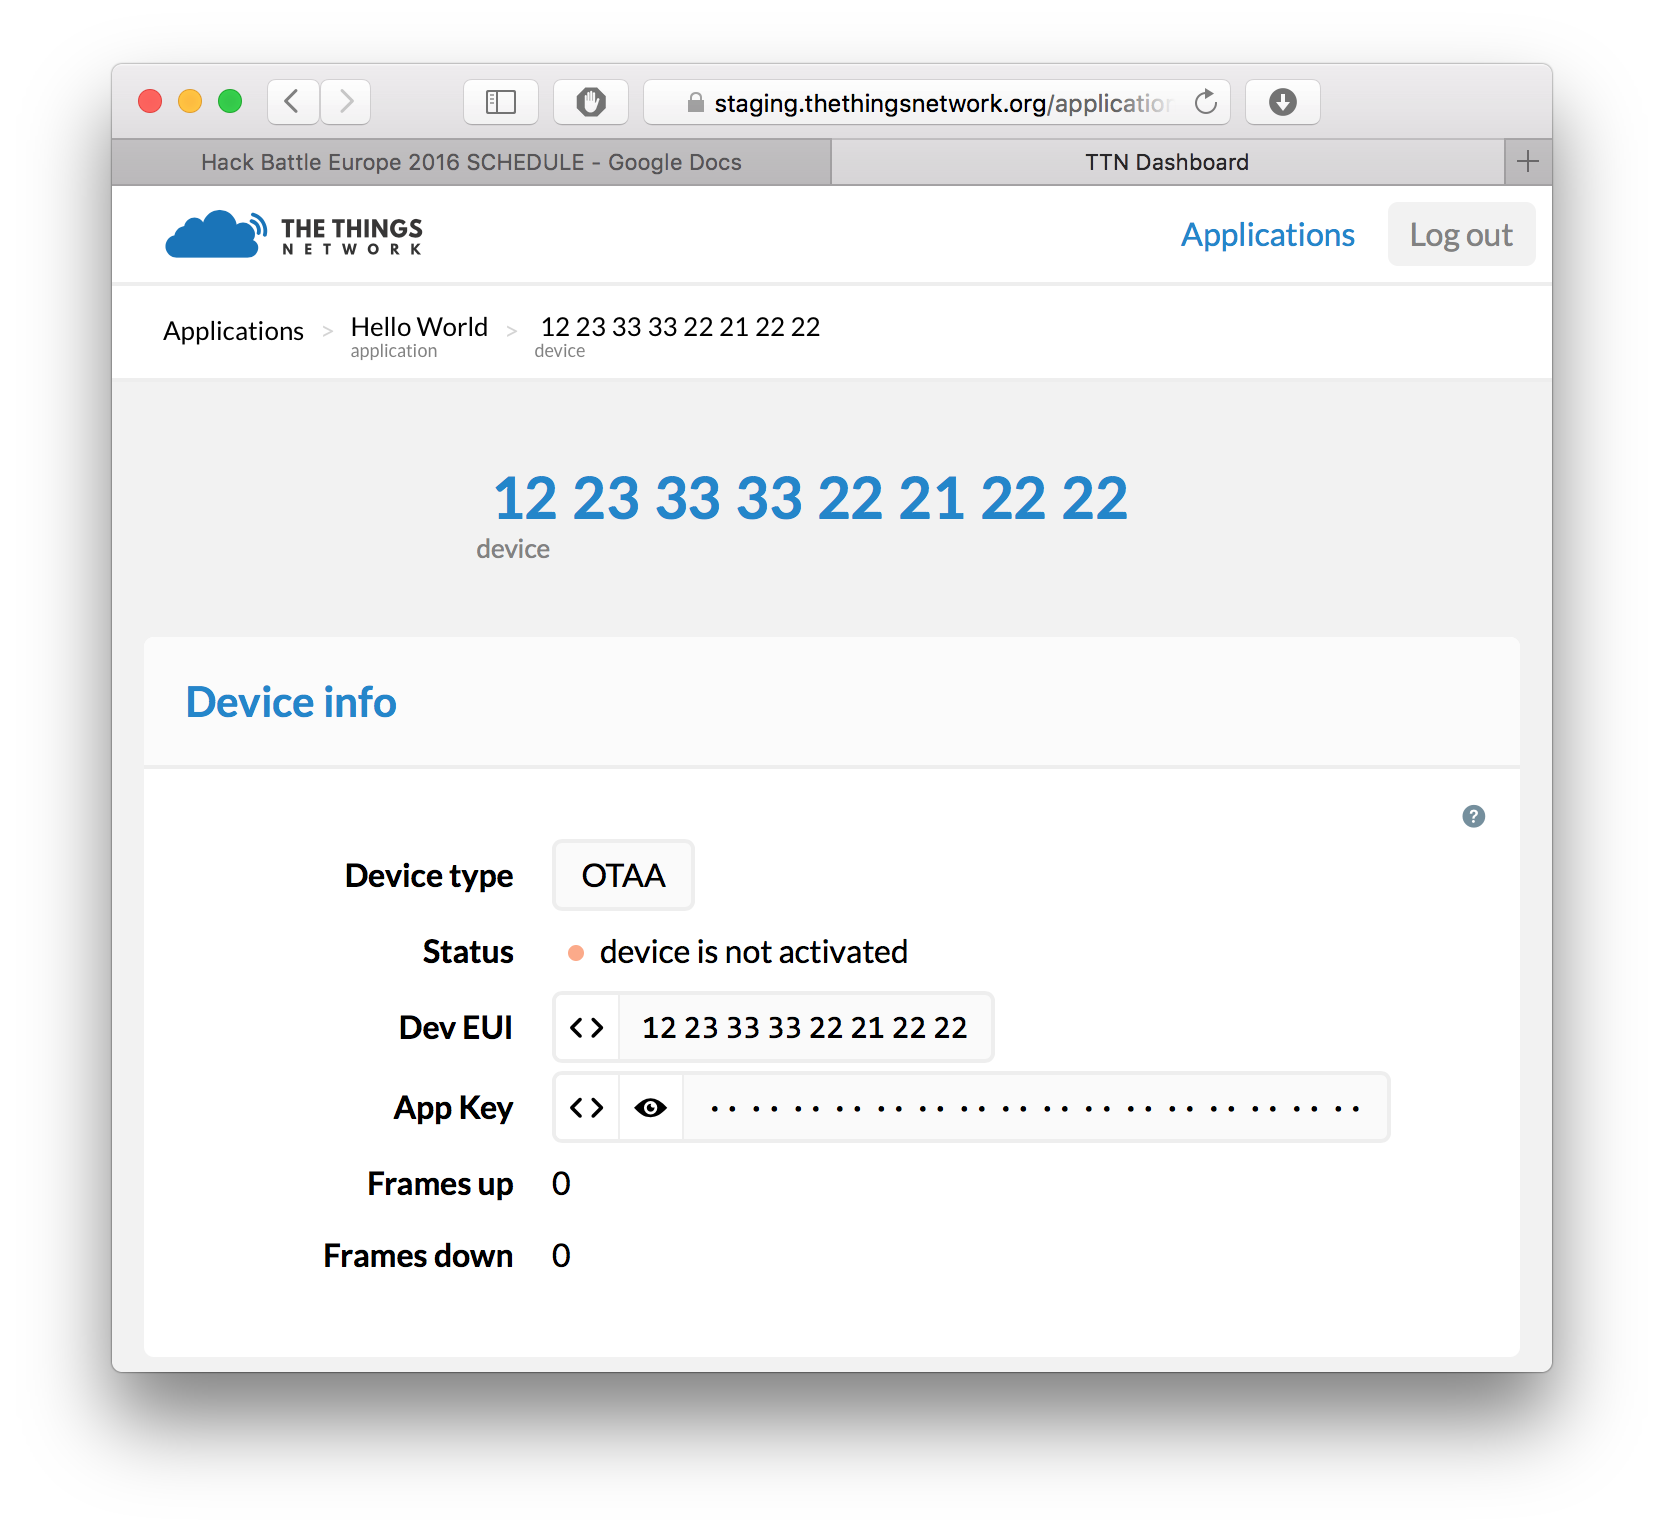
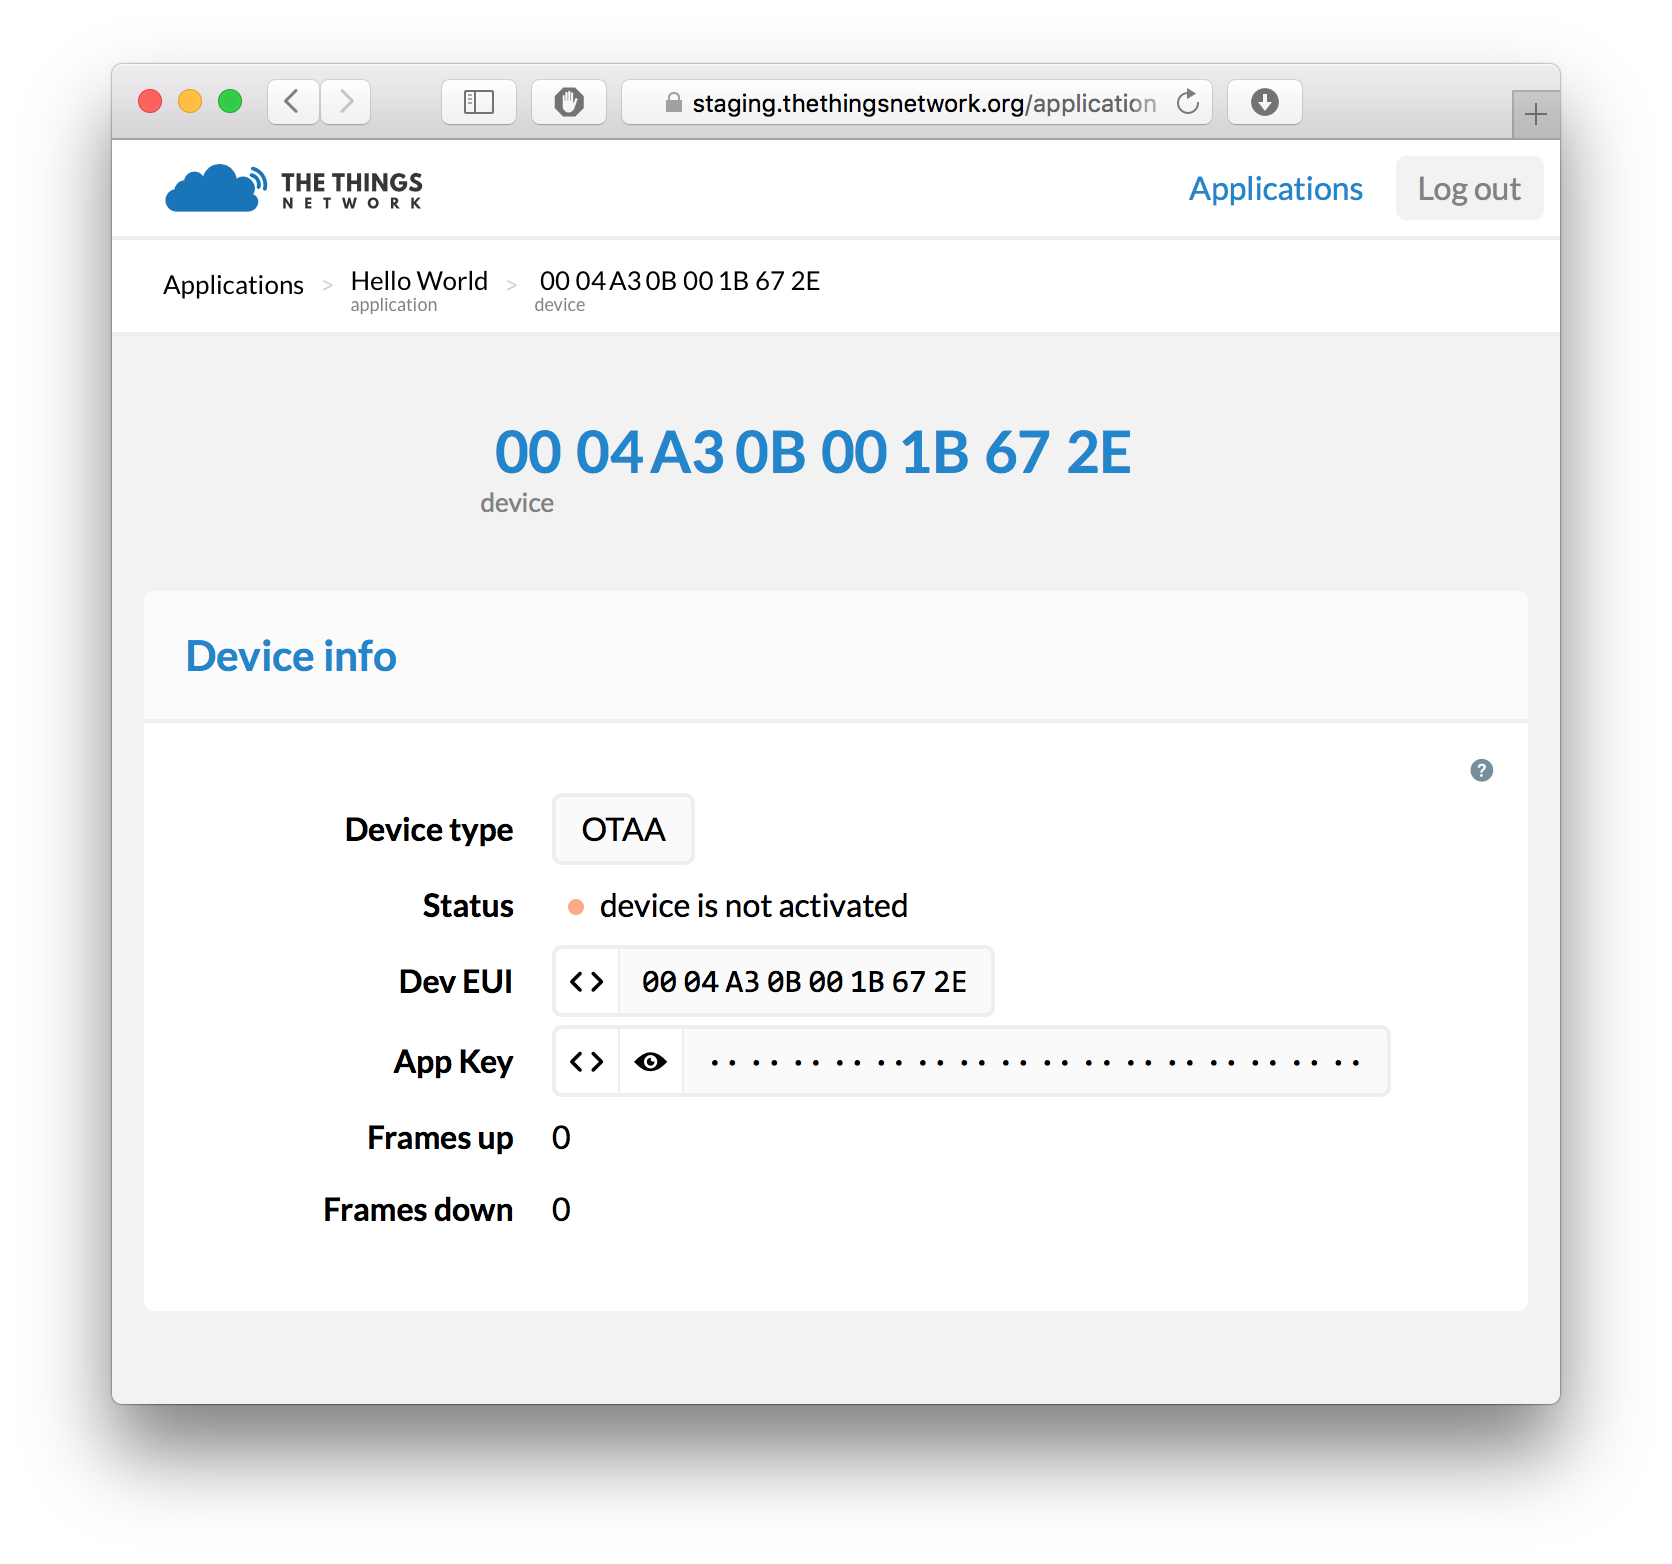
update section about dev eui

diff --git a/workshops/TheThingsUno/README.md b/workshops/TheThingsUno/README.md
@@ -65,12 +65,54 @@ This opens a help message with details about that components.*
 
 The Things Network supports the two LoRaWAN mechanisms to register devices:
 activation by personalization (ABP) and over the air activation (OTAA). In this
-workshop, we use ABP.  ABP device addresses are generated by The Things Network
-for you.
+workshop, we use OTAA.
+
+##### Get the unique node EUI
+To activate our device, we need to know its unique identifier, called the device
+EUI. The device EUI is the unique node address that is hard coded by Microchip into
+the LoRa module. This address is used to register the Node in The Things Network
+database. The DevEUI can be retrieved from the node with the
+`Get-Device-Info.ino`
+sketch.
+1. In the Arduino IDE, open: **File > Examples > TheThingsUno > Get-Device-Info.ino**
+2. Upload sketch without modification.
+3. Click **Sketch > Verify/Compile**
+4. Click **Sketch > Upload (Arduino says Done uploading)**
+5. The Arduino IDE will give feedback when you verify or upload the code to a board. It should look similar to this:
+
+```
+Sketch uses 9,656 bytes (33%) of program storage space. Maximum is 28,672 bytes.
+Global variables use 1,253 bytes (48%) of dynamic memory, leaving 1,307 bytes for local variables. Maximum is 2,560 bytes.
+```
+The Things Uno talks to the computer over the Serial Port. The data that is send
+is displayed with the Serial monitor of the Arduino IDE. Using the Serial
+monitor makes it possible to monitor the proceedings of the Things Uno.
+
+Open the serial monitor in the Arduino IDE: press the Serial monitor button or press **Crtl + Shift + M**.
+
+You should now be receiving data on the Serial Monitor
+
+```
+Device Information
+
+EUI: 0004A30B001B672E
+Battery: 3304
+AppEUI: 0000000000000000
+DevEUI: 0004A30B001B672E
+DevAddr: 00000000
+Data Rate: 5
+RX Delay 1: 1000
+RX Delay 2: 2000
+
+use the device `EUI` to register the device for OTAA
+```
+
+Save the `EUI: 0004A30B001B672E` (`DevEUI`) for later.  
+
 
 To register the device, click **register device** on the application page.  This
 will take you to the device registration page.  Here, select **OTAA** and enter
-an App EUI.  We will let the App Key to be randomly generated.
+an Device EUI.  We will let the App Key to be randomly generated.
 To continue, click **Register**. 
 
 ![register-device](./media/register-device-otaa.png)
